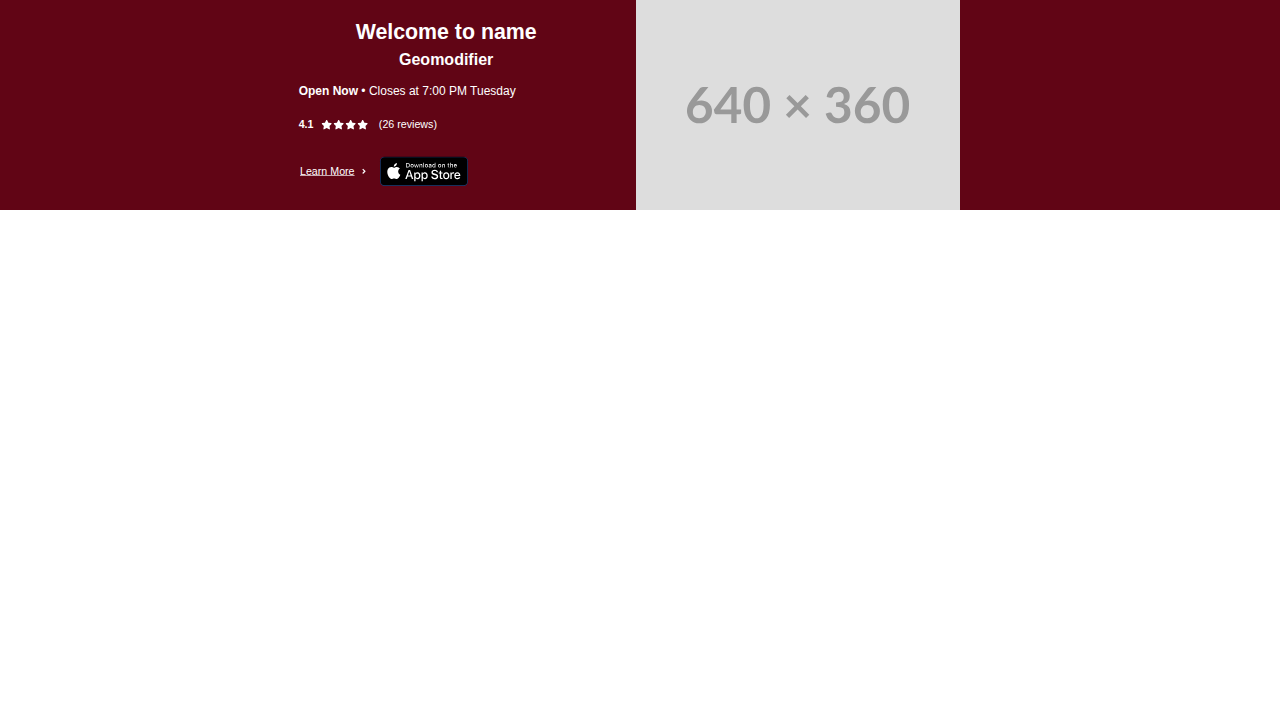
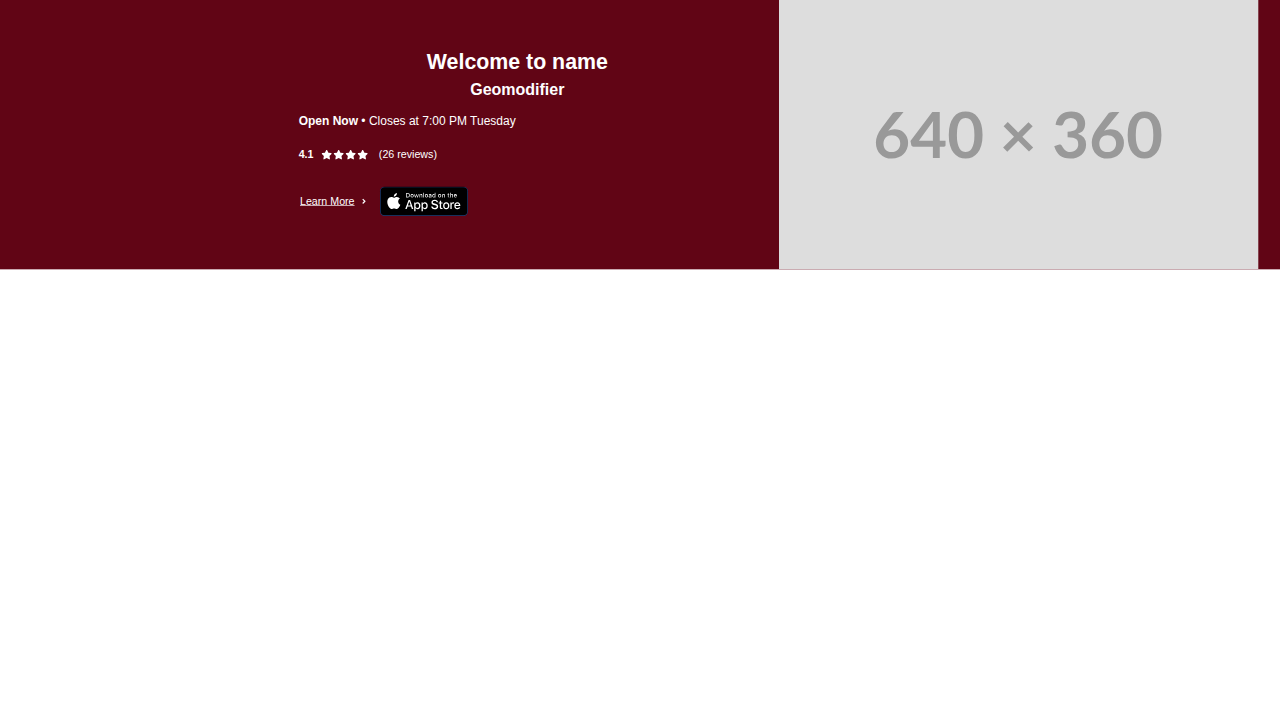
fix: compact variants on 2xl screens (#981)
https://github.com/user-attachments/assets/1d0129a5-d6af-40ed-88e7-bba9255094b2

---------

Changed region(s): [[0.0, 0.0, 1.0, 0.3972]]

diff --git a/packages/visual-editor/src/components/pageSections/heroVariants/CompactHero.tsx b/packages/visual-editor/src/components/pageSections/heroVariants/CompactHero.tsx
@@ -34,7 +34,10 @@ export const CompactHero: PuckComponent<HeroVariantProps> = (props) => {
     <Background background={styles.backgroundColor}>
       <div
         className={themeManagerCn(
-          "w-full max-w-[1440px] flex flex-col sm:flex-row justify-between"
+          "w-full max-w-[1440px] flex flex-col sm:flex-row justify-between",
+          styles.desktopImagePosition === "left"
+            ? "2xl:mr-[max(calc((100vw-var(--maxWidth-pageSection-contentWidth))/2),1.5rem)] ml-auto"
+            : "2xl:ml-[max(calc((100vw-var(--maxWidth-pageSection-contentWidth))/2),1.5rem)] mr-auto"
         )}
       >
         {/* Desktop left image / Mobile top image */}
@@ -67,19 +70,11 @@ export const CompactHero: PuckComponent<HeroVariantProps> = (props) => {
             styles.showImage ? "w-2/4" : "w-full",
             styles.desktopImagePosition === "left"
               ? "sm:pl-8 lg:pl-16 sm:pr-0"
-              : "sm:pr-8 lg:pr-16 sm:pl-0"
-          )}
-          style={
+              : "sm:pr-8 lg:pr-16 sm:pl-0",
             styles.desktopImagePosition === "left"
-              ? {
-                  marginRight:
-                    "max(calc((100vw - var(--maxWidth-pageSection-contentWidth)) / 2), 1.5rem)",
-                }
-              : {
-                  marginLeft:
-                    "max(calc((100vw - var(--maxWidth-pageSection-contentWidth)) / 2), 1.5rem)",
-                }
-          }
+              ? "mr-[max(calc((100vw-var(--maxWidth-pageSection-contentWidth))/2),1.5rem)] 2xl:mr-0 "
+              : "ml-[max(calc((100vw-var(--maxWidth-pageSection-contentWidth))/2),1.5rem)] 2xl:ml-0"
+          )}
         >
           <HeroContent {...props} />
         </div>

diff --git a/packages/visual-editor/src/components/pageSections/PromoSection/CompactPromo.tsx b/packages/visual-editor/src/components/pageSections/PromoSection/CompactPromo.tsx
@@ -13,9 +13,8 @@ export const CompactPromo: PuckComponent<PromoVariantProps> = (props) => {
         className={themeManagerCn(
           "w-full max-w-[1440px] flex flex-col lg:flex-row justify-between",
           styles.desktopImagePosition === "left"
-            ? "lg:pr-[max(calc((100vw-var(--maxWidth-pageSection-contentWidth))/2),1.5rem)]"
-            : "lg:pl-[max(calc((100vw-var(--maxWidth-pageSection-contentWidth))/2),1.5rem)]",
-          "2xl:pl-[max(calc((100vw-var(--maxWidth-pageSection-contentWidth))/2),1.5rem)] 2xl:pr-0"
+            ? "lg:pr-[max(calc((100vw-var(--maxWidth-pageSection-contentWidth))/2),1.5rem)] 2xl:pr-0 2xl:mr-[max(calc((100vw-var(--maxWidth-pageSection-contentWidth))/2),1.5rem)] 2xl:ml-auto"
+            : "lg:pl-[max(calc((100vw-var(--maxWidth-pageSection-contentWidth))/2),1.5rem)]  2xl:pl-0 2xl:ml-[max(calc((100vw-var(--maxWidth-pageSection-contentWidth))/2),1.5rem)] 2xl:mr-auto"
         )}
       >
         {/* Desktop left image / Mobile top image */}
